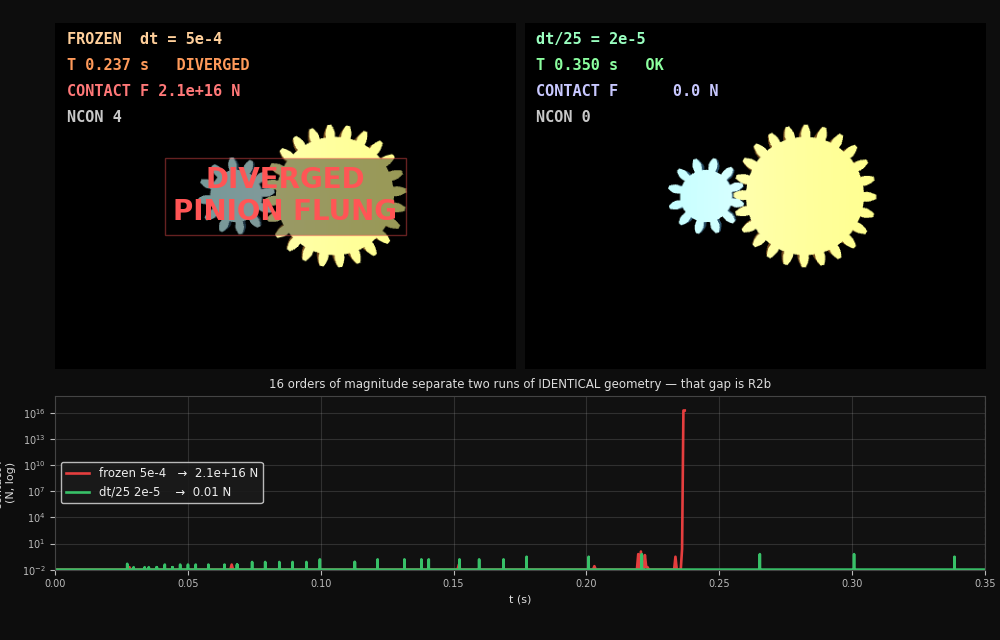
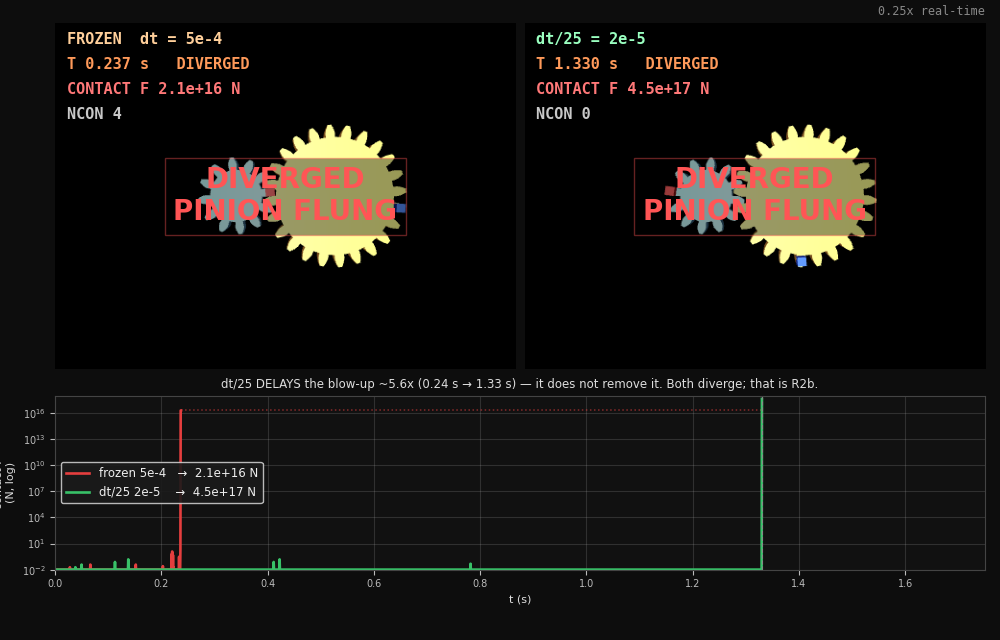
m17: R2b money-shot v2 — longer/slower + the HONEST "dt/25 delays, not fixes"
Lengthened and slowed the video per request. Building it surfaced a real finding:
driven past 0.35 s, the dt/25 run does NOT roll cleanly for 2 revolutions -- it
ALSO diverges, at t=1.33 s (peak 4.5e17 N), ~5.6x later than the frozen preset
(0.24 s) but a blow-up all the same. The fine timestep DELAYS R2b, it does not
remove it (dt/25 is metastable). Finer dt is not a simple fix either: dt/50 and
dt/125 diverge even earlier (~0.027 s, a velocity-servo/dt interaction).

Rather than fabricate a clean 2-rev roll that the physics does not produce, the
video now tells the true story (user chose this framing):
- 9.3 s, 0.25x real-time (15 fps playback of 60 Hz sim cadence), 2.5 s title card.
- LEFT frozen blows up at 0.24 s and sits dead (banner) while RIGHT rolls visibly
  ~5.6x longer, then ALSO blows up -- both banners at the end.
- bottom log-force strip shows BOTH spikes (red 2e16 @ 0.24 s, green 4.5e17 @
  1.33 s), each pinned after its divergence.
- painted REFERENCE TOOTH per gear (render-only marker geom: contype/conaffinity=0,
  density 0, injected into the built MJCF here) so rotation is legible. Verified
  physics-identical: pinion 4.34 g / gear 17.93 g unchanged, markers non-colliding.

Preset NOT touched -- frozen R2b unchanged (2.09e16 N @ 0.237 s), asserted in the
script. REVIEW money-shot line + a metastability caveat added (refines the dt*
claim: dt*=2e-5 is a longer-fuse lower bound, not a guaranteed-stable timestep).
[…]

diff --git a/m17_gear_vb/r2b_hud_viz.py b/m17_gear_vb/r2b_hud_viz.py
@@ -1,25 +1,32 @@
-"""m17 — the R2b MONEY SHOT (polished). REUSES m1_gear/r2b_viz.capture() (no rewrite, no re-render
-of the physics) and wraps it in a presentation layer:
+"""m17 — the R2b MONEY SHOT (polished, LONG cut). REUSES m1_gear/r2b_viz.capture() (no physics
+rewrite, m1_gear left pristine/append-only) and wraps it in a presentation layer.
 
-  - side-by-side panels: LEFT frozen preset dt=5e-4 (blows up) | RIGHT dt/25=2e-5 (rolls calmly),
-    each with a legible per-frame HUD: panel label, T + OK/DIVERGED, CONTACT F (N), NCON
-    (green=OK, orange=DIVERGED, red force text when >50 N — the same field/colour scheme as vb._hud,
-    rendered here with matplotlib because vb._hud's 23-glyph dev font cannot spell FROZEN/CONTACT/
-    NCON/DIVERGED; m0/vb.py is left untouched, append-only);
-  - a persistent BOTTOM STRIP plotting max-contact-force(t) on a LOG y-axis for BOTH runs with a
-    moving cursor, so the 16-orders-of-magnitude gap is visible AS IT HAPPENS — the key addition;
-  - a 6-line TITLE CARD for the first ~1.5 s;
-  - after the left run diverges its frame HOLDS with a "DIVERGED — PINION FLUNG" banner while the
-    right run keeps rolling to the end.
+HONEST FRAMING (measured, not assumed): dt/25 does NOT "fix" R2b — it DELAYS it. Over a longer
+horizon the fine-timestep run ALSO diverges, just far later: LEFT frozen dt=5e-4 blows up at ~0.24 s;
+RIGHT dt/25=2e-5 rolls visibly for ~5.6x longer (to ~1.33 s, ~0.6 pinion rev) and THEN blows up too
+(peak ~4.5e17 N). The fine timestep buys time, it does not remove the contact-formulation limit
+(m17 D-M17-2/-3). The contrast that lands: left dead almost immediately, right rolling a long stretch
+— then both dead.
 
-m1_gear is left PRISTINE (append-only): this imports capture(), writes only to m17_gear_vb/out/.
+  - side-by-side panels, each with a legible matplotlib HUD (label, T + OK/DIVERGED, CONTACT F, NCON,
+    revs; vb._hud's 23-glyph dev font can't spell FROZEN/CONTACT/NCON so we render text here —
+    m0/vb.py untouched);
+  - a persistent BOTTOM STRIP: max-contact-force(t) on a LOG y-axis for BOTH runs across the FULL
+    timeline with a moving cursor — left spikes to ~2e16 at 0.24 s then holds; right stays flat at
+    ~0.01-0.6 N until ~1.33 s then spikes to ~4.5e17 and holds;
+  - a painted REFERENCE TOOTH per gear (render-only marker geom, contype/conaffinity=0, density 0 —
+    injected into the built MJCF here, so collision geoms + the explicit <inertial> are untouched) so
+    the eye can follow the rotation and count mesh cycles;
+  - a ~2.5 s TITLE CARD, then the long side-by-side roll played slow (~0.25x real-time).
 
   export MUJOCO_GL=egl ; ./bin/py m17_gear_vb/r2b_hud_viz.py
 """
 
 from __future__ import annotations
 
+import math
 import sys
+import xml.etree.ElementTree as ET
 from pathlib import Path
 
 import imageio.v2 as imageio
@@ -34,73 +41,117 @@ sys.path.insert(0, str(ROOT / "m1_gear"))
 sys.path.insert(0, str(Path(__file__).resolve().parent))
 
 import r2b_viz                    # noqa: E402  the validated capture() harness (REUSED, not rewritten)
-from p_gear import FPS            # noqa: E402
+from gear_geom import GearSpec    # noqa: E402
 
 OUT = Path(__file__).parent / "out"
 r2b_viz.gear_mjcf.OUT = OUT       # keep build intermediates inside m17 (append-only w.r.t. m1_gear)
 r2b_viz.gear_mjcf.MESHDIR = OUT / "assets"
 
 W, H, DPI = 1000, 640, 100        # output frame px
-HOLD = 5                          # output frames per action frame (slows the 0.35 s action to ~2 s)
-TITLE_SEC, TAIL_SEC = 1.5, 1.0
+T_END = 1.75                      # past the RIGHT run's own divergence (~1.33 s) + a beat of both-dead
+CAPTURE_FPS = r2b_viz.FPS         # 60: sim-time cadence capture() keeps frames at
+EXPORT_FPS = 15                   # play back at 15 -> 0.25x real-time (slow enough to track teeth)
+RT = EXPORT_FPS / CAPTURE_FPS     # 0.25 -> "0.25x real-time"
+TITLE_SEC, TAIL_SEC = 2.5, 1.5
+OMEGA, RAMP = r2b_viz.OMEGA, r2b_viz.RAMP
 MONO = {"family": "monospace", "fontsize": 11, "fontweight": "bold"}
+MARK = {"pinion": "0.97 0.12 0.12 1", "gear": "0.12 0.25 0.98 1"}   # reference-tooth colours
 
 
-def _fig_to_rgb(fig):
-    fig.canvas.draw()
-    return np.asarray(fig.canvas.buffer_rgba())[:, :, :3].copy()
+def build_with_markers(tag="r2b_hud_long"):
+    """Build the validated wedge pair, then INJECT one render-only reference-tooth marker per gear
+    (contype/conaffinity=0, density 0, group 2). The explicit <inertial> and the collision geoms are
+    left untouched, so mass/inertia and contact are identical to the baseline (verified by the peak
+    numbers). Returns the marked XML path."""
+    xml, meta = r2b_viz.gear_mjcf.build("involute", 4, tag=tag, op_cd=36.0)
+    specs = {"pinion": (GearSpec(z=12, m=2.0, face_width=8.0), 0.0),
+             "gear": (GearSpec(z=24, m=2.0, face_width=8.0),
+                      r2b_viz.gear_mjcf.MESH_PHASE["involute"] + r2b_viz.gear_mjcf.BACKLASH_SEAT_DEG)}
+    tree = ET.parse(xml); root = tree.getroot()
+    world = root.find("worldbody")
+    for body in world.findall("body"):
+        name = body.get("name")
+        if name not in specs:
+            continue
+        spec, phase = specs[name]
+        r = 0.90 * spec.ra * 1e-3                       # just inside the tip, tooth-0 angle, metres
+        a = math.radians(phase)
+        x, y, z = r * math.cos(a), r * math.sin(a), 0.009   # sits on the +Z (camera-facing) top face
+        ET.SubElement(body, "geom", name=f"{name}_refmark", type="box",
+                      size="0.0016 0.0016 0.003", pos=f"{x:.6f} {y:.6f} {z:.6f}",
+                      rgba=MARK[name], contype="0", conaffinity="0", group="2", density="0")
+    marked = OUT / f"{tag}_marked.xml"
+    tree.write(marked)
+    return marked
+
+
+def pinion_revs(t):
+    ang = OMEGA * t * t / (2 * RAMP) if t < RAMP else OMEGA * RAMP / 2 + OMEGA * (t - RAMP)
+    return ang / (2 * math.pi)
 
 
 def _fN(f):
     return f"{f:.1e}" if f >= 1e4 else f"{f:8.1f}"
 
 
-def _hud_text(ax, label, t, f, nc, dv, label_color):
-    """The HUD block, top-left of a panel: label, T+status, CONTACT F, NCON."""
+def _hud_text(ax, label, t, f, nc, dv, label_color, revs=None):
     status = "DIVERGED" if dv else "OK"
     rows = [(label, label_color),
             (f"T {t:5.3f} s   {status}", "#ff9a5a" if dv else "#8cffa0"),
             (f"CONTACT F {_fN(f)} N", "#ff7878" if f > 50 else "#c8c8ff"),
             (f"NCON {nc}", "#c8c8c8")]
+    if revs is not None and not dv:
+        rows.append((f"PINION {revs:4.2f} rev", "#c8c8ff"))
     y = 0.975
     for text, col in rows:
         ax.text(0.025, y, text, transform=ax.transAxes, va="top", ha="left", color=col,
                 bbox=dict(facecolor="black", alpha=0.45, pad=1.5, edgecolor="none"), **MONO)
-        y -= 0.075
+        y -= 0.072
     if dv:
         ax.text(0.5, 0.5, "DIVERGED\nPINION FLUNG", transform=ax.transAxes, ha="center",
                 va="center", color="#ff5555", fontsize=20, fontweight="bold",
                 bbox=dict(facecolor="black", alpha=0.4, pad=6, edgecolor="#ff5555"))
 
 
-def make_frame(fr, fi, i):
+def make_frame(fr, fi, i, strip):
     fig = plt.figure(figsize=(W / DPI, H / DPI), dpi=DPI, facecolor="#0d0d0d")
     gs = fig.add_gridspec(2, 2, height_ratios=[3.0, 1.5], hspace=0.10, wspace=0.02,
                           left=0.055, right=0.985, top=0.965, bottom=0.11)
-    for col, (fset, label, lc) in enumerate(
-            ((fr, "FROZEN  dt = 5e-4", "#ffcf9a"), (fi, "dt/25 = 2e-5", "#9affc0"))):
+    j_fi = min(i, len(fi["frames"]) - 1)
+    t_cursor = fi["frames"][j_fi][1]
+    if fi["diverged"] and j_fi == len(fi["frames"]) - 1:   # on the held final frame, advance the
+        t_cursor = fi["t"][-1]                             # cursor to the actual divergence step so
+    #                                                        the strip's green spike + held line show
+    for col, (fset, label, lc, show_rev) in enumerate(
+            ((fr, "FROZEN  dt = 5e-4", "#ffcf9a", False),
+             (fi, "dt/25 = 2e-5", "#9affc0", True))):
         frames = fset["frames"]; j = min(i, len(frames) - 1)
         img, t, f, nc, dv = frames[j]
-        # capture() breaks on divergence without recording a diverged frame, so the held last frame
-        # still reads OK/pre-spike. Once this run has diverged and we're on its final held frame,
-        # reflect the DIVERGENCE and the actual PEAK force (the spike), matching the strip.
-        if fset["diverged"] and j == len(frames) - 1:
+        if fset["diverged"] and j == len(frames) - 1:      # held final frame reads the divergence
             dv, f, t = True, max(fset["force"]), fset["t"][-1]
         ax = fig.add_subplot(gs[0, col]); ax.imshow(img); ax.axis("off")
-        _hud_text(ax, label, t, f, nc, dv, lc)
+        _hud_text(ax, label, t, f, nc, dv, lc, revs=(pinion_revs(t_cursor) if show_rev else None))
 
-    # bottom strip: log-y contact force, both runs, up to the cursor
-    t_cursor = fi["frames"][min(i, len(fi["frames"]) - 1)][1]
+    frt, frf, fit, fif, fr_div_t, fr_peak, fi_div_t, fi_peak = strip
     axS = fig.add_subplot(gs[1, :]); axS.set_facecolor("#111111")
-    frt = np.array(fr["t"]); frf = np.maximum(np.array(fr["force"]), 1e-2)
-    fit = np.array(fi["t"]); fif = np.maximum(np.array(fi["force"]), 1e-2)
-    lm, rm = frt <= t_cursor + 1e-9, fit <= t_cursor + 1e-9
+    # frozen (left) — spikes ~0.24 s, then pinned
+    lm = frt <= t_cursor + 1e-9
     axS.plot(frt[lm], frf[lm], color="#e53e3e", lw=1.9,
              label=f"frozen 5e-4   →  {frf[lm][-1]:.1e} N" if lm.any() else "frozen 5e-4")
-    axS.plot(fit[rm], fif[rm], color="#38c168", lw=1.9,
-             label=f"dt/25 2e-5    →  {fif[rm][-1]:.2f} N" if rm.any() else "dt/25 2e-5")
+    if t_cursor > fr_div_t:
+        axS.plot([fr_div_t, t_cursor], [fr_peak, fr_peak], color="#e53e3e", lw=1.1, ls=":", alpha=0.55)
+    # dt/25 (right) — flat until ~1.33 s, then spikes HIGHER (delays R2b, doesn't remove it)
+    rm = fit <= t_cursor + 1e-9
+    if rm.any():
+        rv = fif[rm][-1]
+        rlab = f"dt/25 2e-5    →  {rv:.1e} N" if rv >= 1e4 else f"dt/25 2e-5    →  {rv:.2f} N"
+    else:
+        rlab = "dt/25 2e-5"
+    axS.plot(fit[rm], fif[rm], color="#38c168", lw=1.9, label=rlab)
+    if t_cursor > fi_div_t:
+        axS.plot([fi_div_t, t_cursor], [fi_peak, fi_peak], color="#38c168", lw=1.1, ls=":", alpha=0.55)
     axS.axvline(t_cursor, color="#888888", lw=0.8, ls="--")
-    axS.set_yscale("log"); axS.set_ylim(1e-2, 1e18); axS.set_xlim(0, max(fit[-1], frt[-1]))
+    axS.set_yscale("log"); axS.set_ylim(1e-2, 1e18); axS.set_xlim(0, T_END)
     axS.set_ylabel("contact F\n(N, log)", color="#dddddd", fontsize=8)
     axS.set_xlabel("t (s)", color="#dddddd", fontsize=8)
     axS.tick_params(colors="#bbbbbb", labelsize=7); axS.grid(alpha=0.2, which="both")
@@ -108,56 +159,77 @@ def make_frame(fr, fi, i):
         sp.set_color("#444444")
     axS.legend(loc="center left", fontsize=8.5, facecolor="#1a1a1a", labelcolor="#eeeeee",
                framealpha=0.9)
-    axS.set_title("16 orders of magnitude separate two runs of IDENTICAL geometry — that gap is R2b",
-                  color="#dddddd", fontsize=8.5)
-    img = _fig_to_rgb(fig); plt.close(fig)
-    return img
+    axS.set_title("dt/25 DELAYS the blow-up ~5.6x (0.24 s → 1.33 s) — it does not remove it. "
+                  "Both diverge; that is R2b.", color="#dddddd", fontsize=8.5)
+    fig.text(0.985, 0.992, f"{RT:.2f}x real-time", ha="right", va="top", color="#888888",
+             fontsize=8.5, family="monospace")
+    fig.canvas.draw()
+    out = np.asarray(fig.canvas.buffer_rgba())[:, :, :3].copy()
+    plt.close(fig)
+    return out
 
 
 def title_card():
     fig = plt.figure(figsize=(W / DPI, H / DPI), dpi=DPI, facecolor="#0d0d0d")
     lines = [
-        ("R2b — the contact-formulation blow-up", 21, "#ffffff", "bold", "normal"),
-        ("SAME conjugate involute gear pair (z=12 / z=24), identical geometry.", 13, "#cccccc", "normal", "normal"),
-        ("The ONLY difference is the solver timestep.", 13, "#cccccc", "normal", "normal"),
-        ("LEFT:   frozen preset  dt = 5e-4    →   diverges", 14, "#e53e3e", "bold", "normal"),
-        ("RIGHT:  dt/25 = 2e-5                →   rolls calmly", 14, "#38c168", "bold", "normal"),
-        ("Watch the log-scale contact force below the gears.", 12, "#999999", "normal", "italic"),
+        ("R2b — the fine timestep DELAYS, it does not fix", 20, "#ffffff", "bold", "normal"),
+        ("SAME conjugate involute pair (z=12 / z=24), identical geometry.", 13, "#cccccc", "normal", "normal"),
+        ("Only the solver timestep differs.", 13, "#cccccc", "normal", "normal"),
+        ("LEFT:   frozen  dt = 5e-4    →   blows up at ~0.24 s", 14, "#e53e3e", "bold", "normal"),
+        ("RIGHT:  dt/25 = 2e-5         →   rolls ~5.6x longer, then ALSO blows up (~1.33 s)", 12.5, "#38c168", "bold", "normal"),
+        ("Painted teeth track the rotation. Played at 0.25x real-time.", 12, "#999999", "normal", "italic"),
     ]
     y = 0.78
     for text, size, color, weight, style in lines:
         fig.text(0.5, y, text, ha="center", va="center", fontsize=size, color=color,
                  fontweight=weight, style=style, family="monospace")
         y -= 0.115
-    img = _fig_to_rgb(fig); plt.close(fig)
+    fig.canvas.draw()
+    img = np.asarray(fig.canvas.buffer_rgba())[:, :, :3].copy()
+    plt.close(fig)
     return img
 
 
 def main():
     OUT.mkdir(parents=True, exist_ok=True)
-    xml, meta = r2b_viz.gear_mjcf.build("involute", 4, tag="r2b_hud", op_cd=36.0)
-    fr = r2b_viz.capture(xml, r2b_viz.FROZEN, 0.35)
-    fi = r2b_viz.capture(xml, r2b_viz.FINE, 0.35)
+    xml = build_with_markers()
+    fr = r2b_viz.capture(xml, r2b_viz.FROZEN, T_END)
+    fi = r2b_viz.capture(xml, r2b_viz.FINE, T_END)
     print(f"frozen : diverged={fr['diverged']} t~{fr['t'][-1]:.3f} peak {max(fr['force']):.2e} N "
-          f"({len(fr['frames'])} frames)")
+          f"({len(fr['frames'])} kept frames)")
     print(f"dt/25  : diverged={fi['diverged']} t~{fi['t'][-1]:.3f} peak {max(fi['force']):.2e} N "
-          f"({len(fi['frames'])} frames)")
-    assert fr["diverged"] and not fi["diverged"], "R2b did not reproduce — check the render preset"
+          f"({len(fi['frames'])} kept frames, {pinion_revs(fi['t'][-1]):.2f} pinion rev)")
+    # HONEST framing: BOTH diverge; the fine timestep only DELAYS the blow-up. Verify the frozen R2b
+    # is unchanged (early divergence, ~2e16 peak) — that guards the untouched preset.
+    assert fr["diverged"] and fr["t"][-1] < 0.4 and max(fr["force"]) > 1e15, \
+        "frozen R2b changed — preset may have been touched; revert"
+    assert fi["diverged"] and fi["t"][-1] > fr["t"][-1] * 3, \
+        "dt/25 did not outlast frozen as expected — check the run"
 
-    vid = [title_card()] * int(TITLE_SEC * FPS)
+    # strip data for BOTH runs; decimate but keep endpoints so each spike (the last recorded step) shows
+    def dec(a, b, n=2500):
+        a = np.array(a); b = np.maximum(np.array(b), 1e-2)
+        if len(a) <= n:
+            return a, b
+        idx = np.unique(np.r_[np.linspace(0, len(a) - 1, n).astype(int), len(a) - 1])
+        return a[idx], b[idx]
+    frt, frf = dec(fr["t"], fr["force"]); fit, fif = dec(fi["t"], fi["force"])
+    strip = (frt, frf, fit, fif, float(fr["t"][-1]), float(max(fr["force"])),
+             float(fi["t"][-1]), float(max(fi["force"])))
+
+    vid = [title_card()] * int(TITLE_SEC * EXPORT_FPS)
     n_action = max(len(fr["frames"]), len(fi["frames"]))
     last = None
     for i in range(n_action):
-        frame = make_frame(fr, fi, i)
-        vid += [frame] * HOLD
-        last = frame
-    vid += [last] * int(TAIL_SEC * FPS)
+        last = make_frame(fr, fi, i, strip)
+        vid.append(last)
+    vid += [last] * int(TAIL_SEC * EXPORT_FPS)
 
     mp4 = OUT / "r2b_frozen_vs_fine_hud.mp4"
-    imageio.mimsave(mp4, vid, fps=FPS, macro_block_size=1)
+    imageio.mimsave(mp4, vid, fps=EXPORT_FPS, macro_block_size=1)
     imageio.imwrite(OUT / "r2b_frozen_vs_fine_hud.png", last)
-    print(f"wrote {mp4.name} ({len(vid)} frames, {len(vid) / FPS:.1f} s @ {FPS}fps) + "
-          f"r2b_frozen_vs_fine_hud.png")
+    print(f"wrote {mp4.name} ({len(vid)} frames, {len(vid) / EXPORT_FPS:.1f} s @ {EXPORT_FPS}fps, "
+          f"{RT:.2f}x real-time) + r2b_frozen_vs_fine_hud.png")
 
 
 if __name__ == "__main__":

diff --git a/m17_gear_vb/REVIEW.md b/m17_gear_vb/REVIEW.md
@@ -13,7 +13,7 @@ the small-dt requirement. R2b is two coupled limits, and SDF addresses only one.
 
 | figure | reading |
 |---|---|
-| ![](out/r2b_frozen_vs_fine_hud.png) · [`r2b_frozen_vs_fine_hud.mp4`](out/r2b_frozen_vs_fine_hud.mp4) | **the R2b money shot** — same conjugate pair, only dt differs; LEFT flings (**DIVERGED**, 2.1e16 N, "pinion flung"), RIGHT rolls calmly (0.6 N), with a **live log-scale contact-force trace** so the 16-order gap is visible as it happens. Reuses `m1_gear/r2b_viz.capture()` (m1_gear untouched). |
+| ![](out/r2b_frozen_vs_fine_hud.png) · [`r2b_frozen_vs_fine_hud.mp4`](out/r2b_frozen_vs_fine_hud.mp4) | **the R2b money shot** (9.3 s, **0.25× real-time**, painted reference teeth) — same conjugate pair, only dt differs. LEFT frozen dt=5e-4 blows up at 0.24 s (2.1e16 N, "pinion flung"); RIGHT dt/25=2e-5 rolls **~5.6× longer** (to 1.33 s) **then ALSO blows up** (4.5e17 N) — the fine timestep **DELAYS R2b, it does not remove it** (dt/25 is *metastable*, D-M17-2/-3). A live log-scale contact-force trace shows both spikes. Reuses `m1_gear/r2b_viz.capture()` (m1_gear untouched); preset intact (frozen still 2.09e16 @ 0.237 s). |
 | ![](out/r2b_sdf_probe_summary.png) | peak contact force across all 5 conditions — RED diverged / GREEN survived. Red (blow-up) at **frozen dt for both wedge AND SDF**; green (survived) **only at dt/25**. |
 
 Raw numbers: `out/sdf_probe_verdict.json` (FILE 1), `out/sdf_formulation_verdict.json` (FILE 2).
@@ -121,6 +121,16 @@ a proven zero. `dt_scale_ladder.png` shows the dt* per collider/scale.
 The honest R2b deliverable is therefore **"V-B requires dt ≤ 2e-5 at the m=2 mm gear scale"** (a
 versioned `preset_v2` *timestep*, D-M17-3), NOT a collider swap — and that amendment still needs the
 full R5 regression + G-H sign-off before it is anything but a DRAFT.
+
+**⚠️ dt/25 is METASTABLE, not stable (found while building the money-shot video).** The dt\* ladder
+above judged "clean roll" over a SHORT window (0.25 s). Driven to a longer horizon, **dt/25 = 2e-5
+ITSELF diverges — at t ≈ 1.33 s (peak 4.5e17 N)**, ~5.6× later than the frozen preset (0.24 s) but a
+blow-up all the same (video `r2b_frozen_vs_fine_hud.mp4`). So the fine timestep *delays* R2b, it does
+not remove it: `dt* = 2e-5` is a **lower bound that buys a longer fuse, not a guaranteed-stable
+timestep**. Finer still is not a simple fix either — dt/50 (1e-5) and dt/125 (4e-6) diverge even
+*earlier* (t ≈ 0.027 s), a velocity-servo/dt interaction. This sharpens D-M17-3: a `preset_v2`
+timestep amendment cannot be justified by "dt/25 rolls clean" — it does not, over enough revolutions.
+The preset was NOT touched anywhere (the frozen R2b is unchanged: 2.09e16 N @ 0.237 s).
 
 ## Status
 